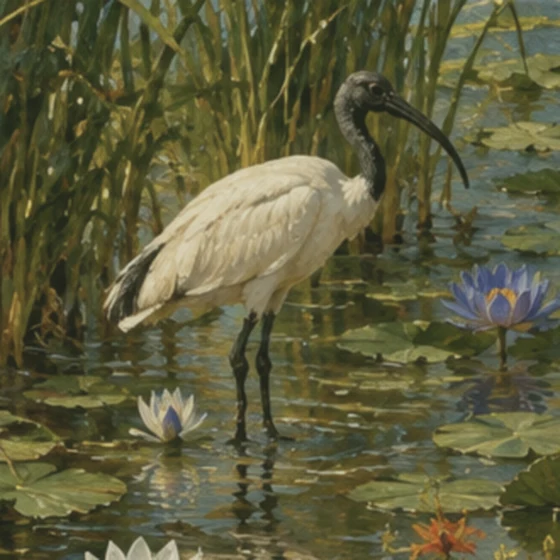
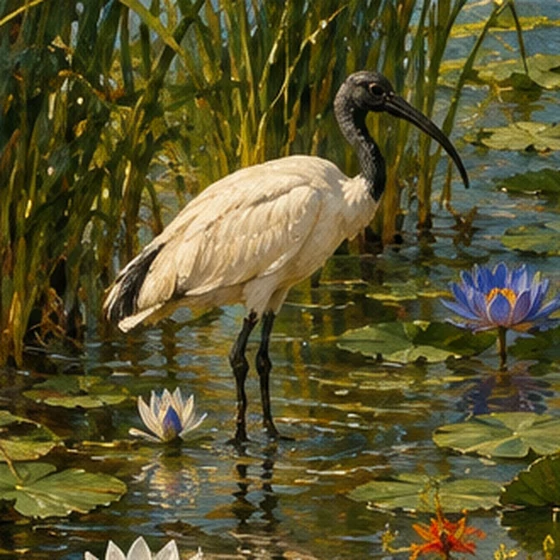
Stories: original painting colours, crowns visible on mobile
Claude-Session: https://claude.ai/code/session_015Py254KMr5kCvAhqEtRz8k

diff --git a/src/pages/Stories.jsx b/src/pages/Stories.jsx
@@ -31,14 +31,14 @@ import ClothRibbon from '../components/stories/ClothRibbon.jsx'
 const IMG = (name) => assetUrl(`/images/stories/structured/${name}`)
 // اللوحة بدقة 4K (3840px) + نسخ أصغر للشاشات الأقل
 const crownSet = (side) => ({
-  src: IMG(`crown-${side}-v3-1200.webp`),
-  srcSet: `${IMG(`crown-${side}-v3-640.webp`)} 640w, ${IMG(`crown-${side}-v3-1200.webp`)} 1200w, ${IMG(`crown-${side}-v3-1800.webp`)} 1800w`,
+  src: IMG(`crown-${side}-v4-1200.webp`),
+  srcSet: `${IMG(`crown-${side}-v4-640.webp`)} 640w, ${IMG(`crown-${side}-v4-1200.webp`)} 1200w, ${IMG(`crown-${side}-v4-1800.webp`)} 1800w`,
 })
 const CROWN_L = crownSet('left')
 const CROWN_R = crownSet('right')
 const PAINTING = {
-  src: IMG('nile-painting-v3-2400.webp'),
-  srcSet: `${IMG('nile-painting-v3-1280.webp')} 1280w, ${IMG('nile-painting-v3-2400.webp')} 2400w, ${IMG('nile-painting-v3-3840.webp')} 3840w`,
+  src: IMG('nile-painting-v4-2400.webp'),
+  srcSet: `${IMG('nile-painting-v4-1280.webp')} 1280w, ${IMG('nile-painting-v4-2400.webp')} 2400w, ${IMG('nile-painting-v4-3840.webp')} 3840w`,
 }
 
 const EASE = [0.22, 1, 0.36, 1]

diff --git a/src/styles/stories-structured.css b/src/styles/stories-structured.css
@@ -859,6 +859,22 @@
   .qz-sx-journey {
     --tw: 56vw;
   }
+  /* اللوحة على الموبايل أعرض من الشاشة، فالتيجان بتتثبت على حواف الشاشة نفسها */
+  .qz-sx-crownbox {
+    left: 0;
+    translate: none;
+    width: 100%;
+    aspect-ratio: 2.6 / 1;
+  }
+  .qz-sx-crown {
+    width: 46%;
+  }
+  .qz-sx-crown.is-l {
+    left: -8%;
+  }
+  .qz-sx-crown.is-r {
+    right: -8%;
+  }
   .qz-sx-ibis {
     width: 9%;
   }
